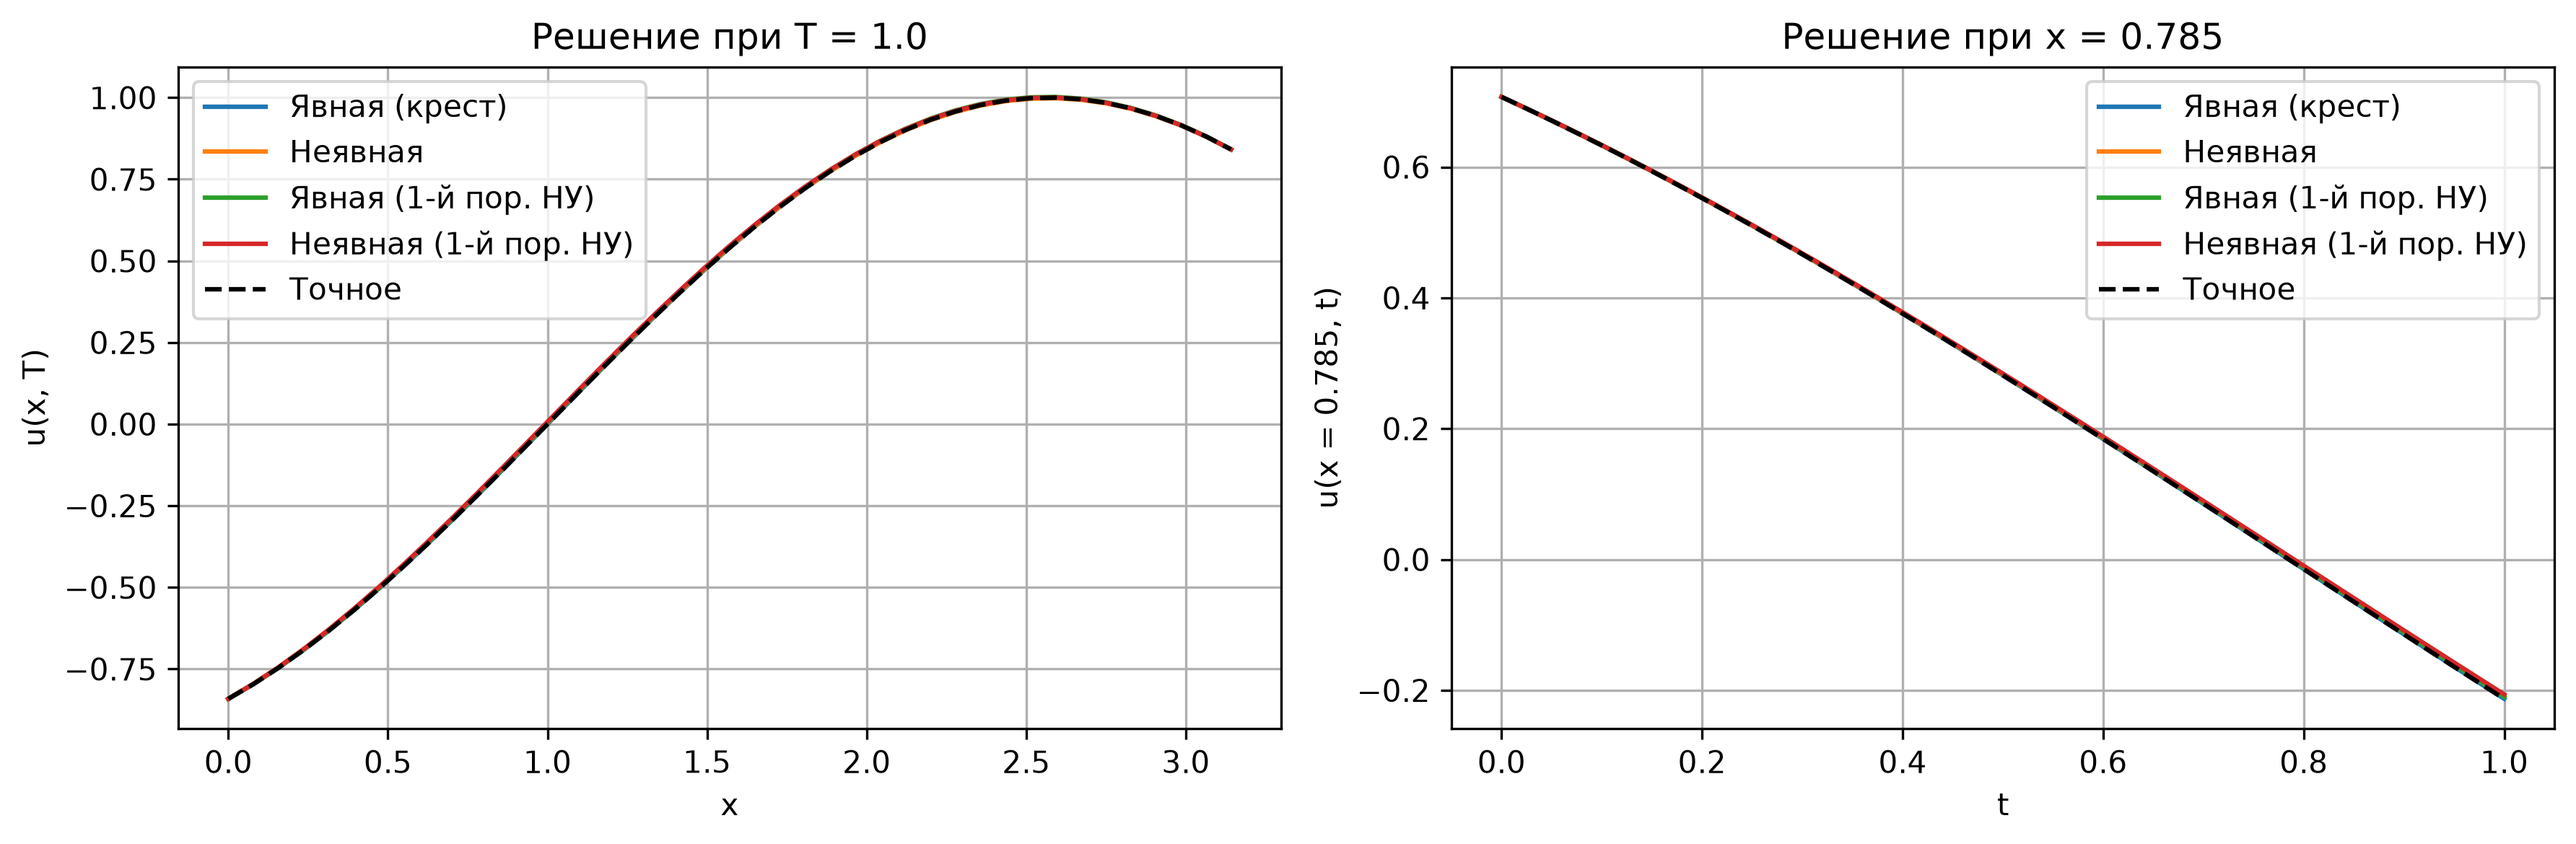
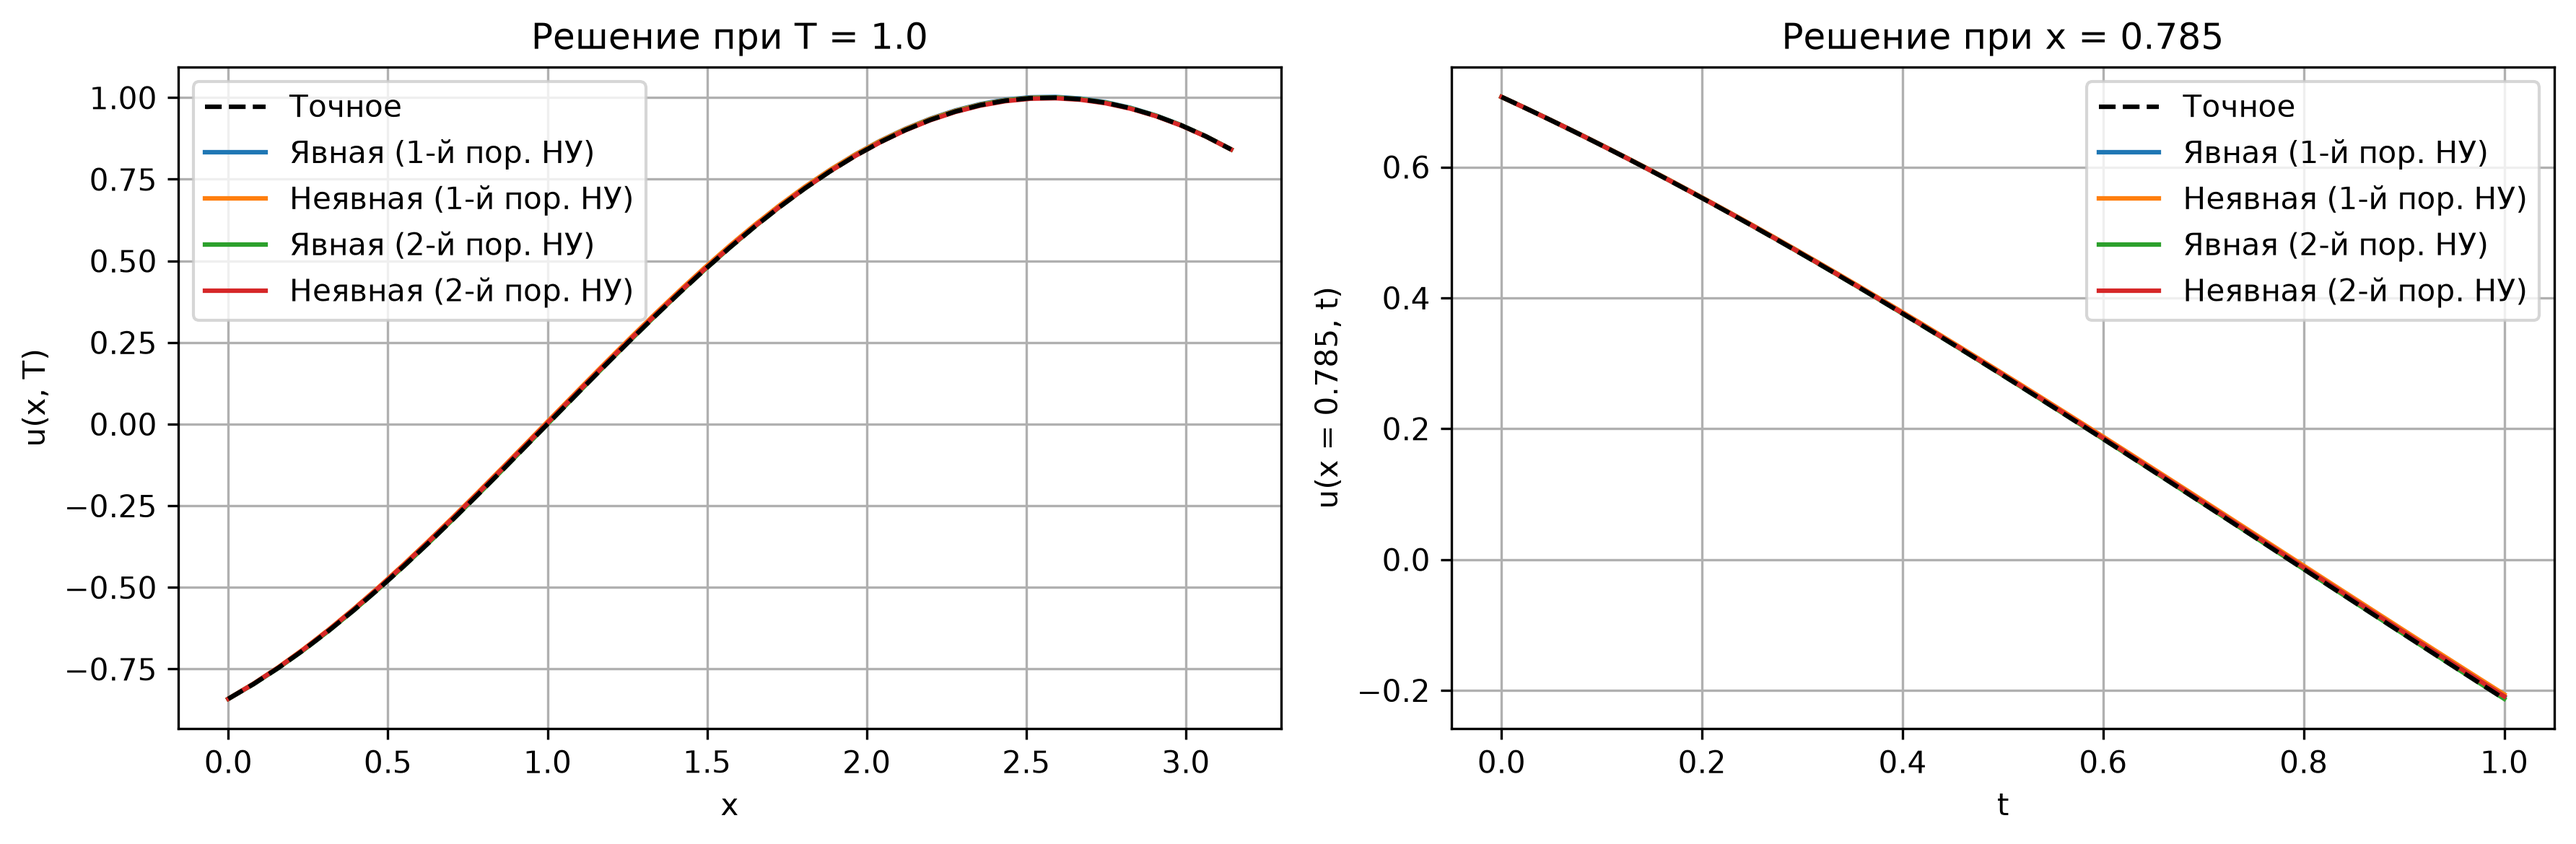
done2

diff --git a/task/task.py b/task/task.py
@@ -98,10 +98,11 @@ def main():
     k_total = 100
 
     schemes = [
-        ("Явная (крест)", solve_explicit),
-        ("Неявная", solve_implicit),
         ("Явная (1-й пор. НУ)", solve_explicit_order1),
         ("Неявная (1-й пор. НУ)", solve_implicit_order1),
+        ("Явная (2-й пор. НУ)", solve_explicit),
+        ("Неявная (2-й пор. НУ)", solve_implicit),
+
     ]
 
     h = L / n
@@ -109,7 +110,7 @@ def main():
     sigma = (A_COEF * tau / h) ** 2
 
     print(f"Базовый расчет: N={n}, K={k_total}, h={h:.5f}, tau={tau:.6f}, sigma={sigma:.4f}")
-    print(f"{'Метод':<24}{'max|ошибка| при T':<24}{'RMSE'}")
+    print(f"{'Метод':<24}{f'max|ошибка| при T={T:g}':<24}{'RMSE (0..T)'}")
 
     solutions = {}
     x_base = None
@@ -125,14 +126,50 @@ def main():
 
     assert x_base is not None and t_base is not None, "Не выбраны схемы для расчета"
 
-    print("\nПогрешности в разные моменты времени (RMSE по узлам одного слоя)")
-    print(f"{'Метод':<24}{'t':<10}{'max|ошибка|':<18}{'RMSE'}")
-    for name, layers in solutions.items():
-        for fraction in (0.0, 0.25, 0.5, 1.0):
-            k = round(fraction * k_total)
-            max_err, rmse = compute_errors([layers[k]], x_base, [t_base[k]])
-            print(f"{name:<24}{t_base[k]:<10.4f}{max_err:<18.6e}{rmse:.6e}")
+    method_order = [
+        "Явная (1-й пор. НУ)",
+        "Явная (2-й пор. НУ)",
+        "Неявная (1-й пор. НУ)",
+        "Неявная (2-й пор. НУ)",
+    ]
+
+    method_labels = [
+        "Явная НУ-1",
+        "Явная НУ-2",
+        "Неявная НУ-1",
+        "Неявная НУ-2",
+    ]
+
+    time_points = (0.0, 0.25, 0.5, 0.75, 1.0)
+
+    for metric_name, metric_idx in [
+        ("Максимальная абсолютная погрешность", 0),
+        ("Среднеквадратичная погрешность (RMSE)", 1),
+    ]:
+        print(f"\n{metric_name}")
+        print("-" * 85)
+
+        print(f"{'t':<10}", end="")
+        for label in method_labels:
+            print(f"{label:>18}", end="")
         print()
+
+        print("-" * 85)
+
+        for fraction in time_points:
+            k = round(fraction * k_total)
+            t = t_base[k]
+
+            print(f"{t:<10.2f}", end="")
+
+            for name in method_order:
+                layers = solutions[name]
+                errors = compute_errors(
+                    [layers[k]], x_base, [t]
+                )
+                print(f"{errors[metric_idx]:>18.3e}", end="")
+
+            print()
 
     build_plots(solutions, x_base, t_base)
 

diff --git a/task/utils.py b/task/utils.py
@@ -120,7 +120,7 @@ def build_plots(solutions, x_values, t_values, a=A_COEF):
     axes1[0].set_xlabel("x")
     axes1[0].set_ylabel("u(x, T)")
     axes1[0].grid(True)
-    axes1[0].legend()
+    exact_first_legend(axes1[0])
 
     exact_t = [exact_solution(x_fixed, t, a) for t in t_values]
     axes1[1].plot(t_values, exact_t, "k--", label="Точное")
@@ -128,14 +128,14 @@ def build_plots(solutions, x_values, t_values, a=A_COEF):
     axes1[1].set_xlabel("t")
     axes1[1].set_ylabel(f"u(x = {x_fixed:.3f}, t)")
     axes1[1].grid(True)
-    axes1[1].legend()
+    exact_first_legend(axes1[1])
 
     plt.tight_layout()
     plt.savefig(get_plot_path("plot_compare.png"), dpi=300, bbox_inches="tight")
     plt.close()
 
     # Профили волны в разные моменты времени
-    indices = [round(fraction * (len(t_values) - 1)) for fraction in (0.0, 0.25, 0.5, 1.0)]
+    indices = [round(fraction * (len(t_values) - 1)) for fraction in (0.0, 0.25, 0.5, 0.75, 1.0)]
     fig2, axes2 = plt.subplots(2, 2, num="Профили волны (2х2)", figsize=(11, 8), sharey=True)
 
     for (title, layers), ax in zip(solutions.items(), axes2.flat):
@@ -152,7 +152,7 @@ def build_plots(solutions, x_values, t_values, a=A_COEF):
         ax.set_ylabel("u(x, t)")
         ax.set_ylim(-1.2, 1.2)
         ax.grid(True)
-        ax.legend(loc="upper right")
+        exact_first_legend(ax, loc="upper right")
 
     fig2.suptitle("Цветные линии — численное решение, чёрный пунктир — точное")
     plt.tight_layout()
@@ -211,3 +211,15 @@ def run_grid_convergence_study(schemes):
     plt.tight_layout()
     plt.savefig(get_plot_path("plot_convergence.png"), dpi=300)
     plt.close()
+
+def exact_first_legend(ax, **kwargs):
+    handles, labels = ax.get_legend_handles_labels()
+    order = sorted(
+        range(len(labels)),
+        key=lambda i: 0 if labels[i].startswith("Точное") else 1
+    )
+    ax.legend(
+        [handles[i] for i in order],
+        [labels[i] for i in order],
+        **kwargs
+    )
